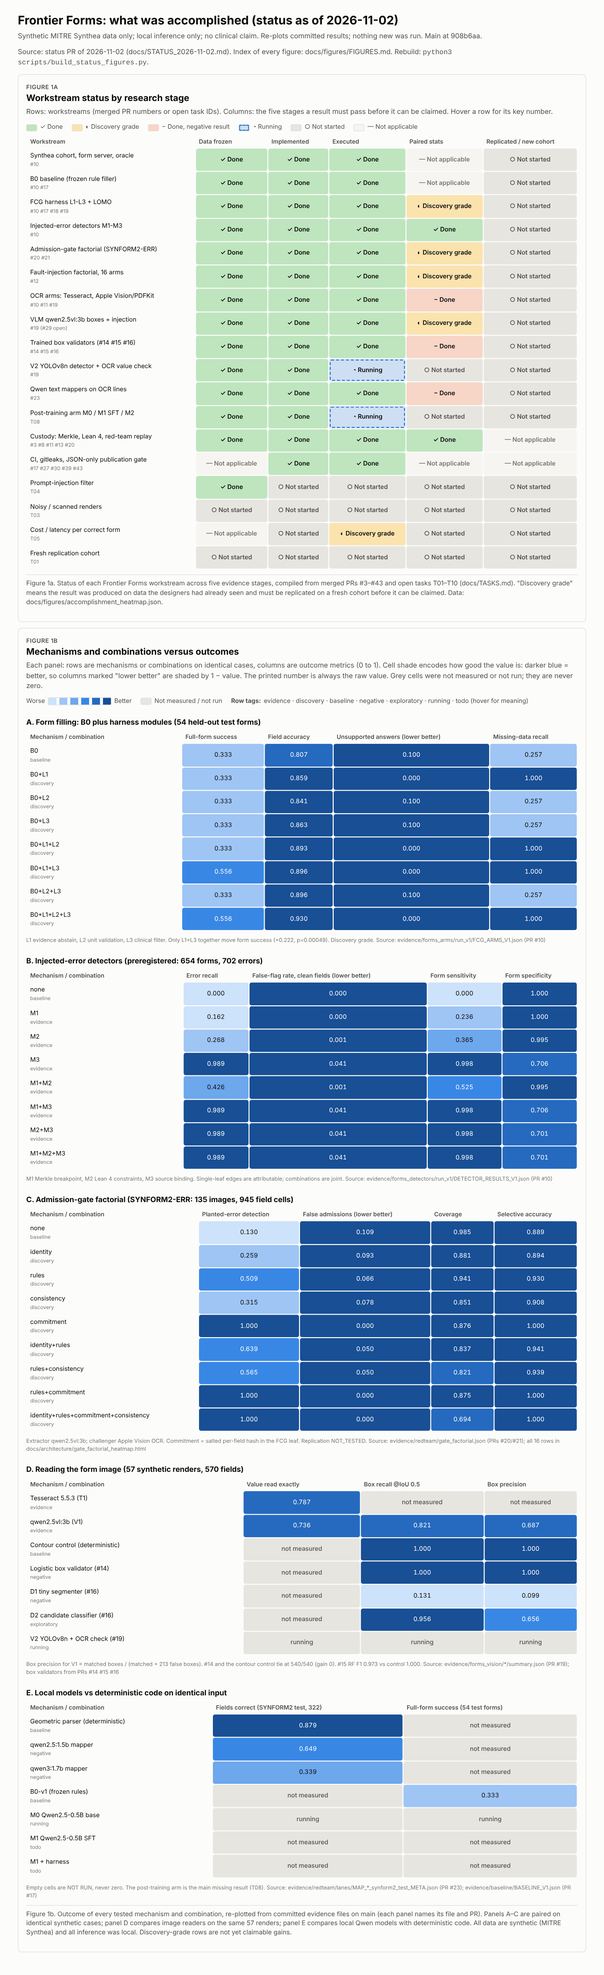
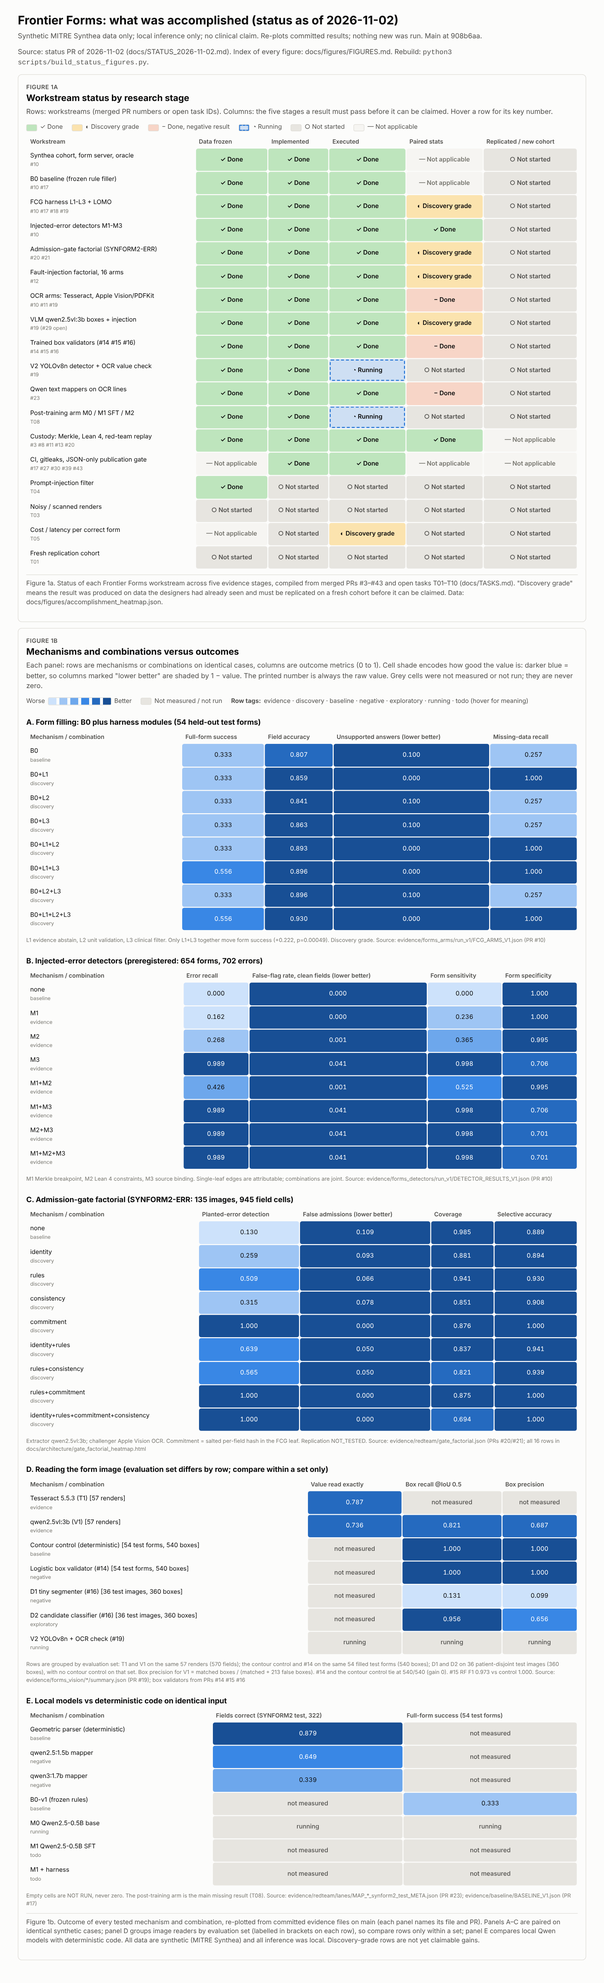
figures: credit M3's LOMO gain; label evaluation sets in the image-reader panel
Addresses review on #50: the detector note now says removing M3 loses 0.563
recall (p=2.5e-119) while M1/M2 add nothing once M3 is present, and panel D
labels each row's evaluation set (57 renders / 54 forms / 36 images) instead
of implying one shared case set.

Claude-Session: https://claude.ai/code/session_015q5z22WRZbHwyEhLJBDBgv

diff --git a/docs/figures/accomplishment_heatmap.html b/docs/figures/accomplishment_heatmap.html
@@ -78,7 +78,7 @@ button{font:inherit;font-size:12px;border:1px solid var(--border);background:var
 </main>
 <div id="tip" role="tooltip"></div>
 <script>
-const DATA={"schema": "frontier_forms.accomplishment_heatmap.v1", "as_of_utc": "2026-11-02T23:45:00Z", "main_commit": "908b6aa", "claim_ceiling": "Synthetic MITRE Synthea data only; local inference only; no clinical claim. Re-plots committed results; nothing new was run.", "stages": ["Data frozen", "Implemented", "Executed", "Paired stats", "Replicated / new cohort"], "workstreams": [{"name": "Synthea cohort, form server, oracle", "prs": "#10", "states": ["done", "done", "done", "na", "todo"], "note": "100 patients, splits 63/19/18, byte-reproducible. Two oracle rules still need PI sign-off (T02)."}, {"name": "B0 baseline (frozen rule filler)", "prs": "#10 #17", "states": ["done", "done", "done", "na", "todo"], "note": "33.3% full-form success (18/54) on the held-out test split."}, {"name": "FCG harness L1-L3 + LOMO", "prs": "#10 #17 #18 #19", "states": ["done", "done", "done", "discovery", "todo"], "note": "0.333 -> 0.556 (12/0 discordant, p=0.00049). Discovery grade: modules written after B0 errors were seen (T01)."}, {"name": "Injected-error detectors M1-M3", "prs": "#10", "states": ["done", "done", "done", "done", "todo"], "note": "Preregistered: 654 forms, 702 injected errors. M3 source binding recall 0.99; LOMO: no single unique contribution."}, {"name": "Admission-gate factorial (SYNFORM2-ERR)", "prs": "#20 #21", "states": ["done", "done", "done", "discovery", "todo"], "note": "Per-field commitment leaf: detection 0.13 -> 1.00, 0 false admissions. Replication NOT_TESTED."}, {"name": "Fault-injection factorial, 16 arms", "prs": "#12", "states": ["done", "done", "done", "discovery", "todo"], "note": "Seeded faults with known corrections; 100% repair is by design, not a model gain."}, {"name": "OCR arms: Tesseract, Apple Vision/PDFKit", "prs": "#10 #11 #19", "states": ["done", "done", "done", "negative", "todo"], "note": "Tesseract labels 0.967 / values 0.787. Apple A2 read-back loses dropdowns and long lists (p=0.5)."}, {"name": "VLM qwen2.5vl:3b boxes + injection", "prs": "#19 (#29 open)", "states": ["done", "done", "done", "discovery", "todo"], "note": "Box recall 0.821, value read 0.736, 24 s/page. Injection followed 0/18 (V1i on open PR #29)."}, {"name": "Trained box validators (#14 #15 #16)", "prs": "#14 #15 #16", "states": ["done", "done", "done", "negative", "todo"], "note": "No gain over deterministic contour control. D2 recall 0.956 / precision 0.656 is exploratory; no new-layout test."}, {"name": "V2 YOLOv8n detector + OCR value check", "prs": "#19", "states": ["done", "done", "running", "todo", "todo"], "note": "Pipeline merged; run in progress on MacBookPro (T09)."}, {"name": "Qwen text mappers on OCR lines", "prs": "#23", "states": ["done", "done", "done", "negative", "todo"], "note": "Both Qwen mappers below the deterministic parser on identical input (209 and 109 vs 283 of 322 fields)."}, {"name": "Post-training arm M0 / M1 SFT / M2", "prs": "T08", "states": ["done", "done", "running", "todo", "todo"], "note": "Qwen2.5-0.5B LoRA: one epoch-0 val loss (1.005), no adapter saved. Restart on MacBookPro."}, {"name": "Custody: Merkle, Lean 4, red-team replay", "prs": "#3 #8 #11 #13 #20", "states": ["done", "done", "done", "done", "na"], "note": "All roots recomputed independently; 7 custody weaknesses reproduced as tests; forged-custody fix (#8)."}, {"name": "CI, gitleaks, JSON-only publication gate", "prs": "#17 #27 #30 #39 #43", "states": ["na", "done", "done", "na", "na"], "note": "Full-history gitleaks; 123 legacy files pinned by exact blob; new images under data/evidence/experiments rejected."}, {"name": "Prompt-injection filter", "prs": "T04", "states": ["done", "todo", "todo", "todo", "todo"], "note": "Measured (V1i, Tesseract reads the note in 19/57) but no filter exists."}, {"name": "Noisy / scanned renders", "prs": "T03", "states": ["todo", "todo", "todo", "todo", "todo"], "note": "All arms read clean browser renders."}, {"name": "Cost / latency per correct form", "prs": "T05", "states": ["na", "todo", "discovery", "todo", "todo"], "note": "Per-page latency recorded for some arms; no seconds-per-correct-form metric."}, {"name": "Fresh replication cohort", "prs": "T01", "states": ["todo", "todo", "todo", "todo", "todo"], "note": "Needs a preregistered new Synthea seed scored once with frozen arms."}], "panels": [{"title": "Form filling: B0 plus harness modules (54 held-out test forms)", "source": "evidence/forms_arms/run_v1/FCG_ARMS_V1.json (PR #10)", "columns": ["Full-form success", "Field accuracy", "Unsupported answers (lower better)", "Missing-data recall"], "lower_better": [false, false, true, false], "rows": [{"label": "B0", "values": [0.333333, 0.807407, 0.099617, 0.257143], "grade": "baseline"}, {"label": "B0+L1", "values": [0.333333, 0.859259, 0.0, 1.0], "grade": "discovery"}, {"label": "B0+L2", "values": [0.333333, 0.840741, 0.099617, 0.257143], "grade": "discovery"}, {"label": "B0+L3", "values": [0.333333, 0.862963, 0.099617, 0.257143], "grade": "discovery"}, {"label": "B0+L1+L2", "values": [0.333333, 0.892593, 0.0, 1.0], "grade": "discovery"}, {"label": "B0+L1+L3", "values": [0.555556, 0.896296, 0.0, 1.0], "grade": "discovery"}, {"label": "B0+L2+L3", "values": [0.333333, 0.896296, 0.099617, 0.257143], "grade": "discovery"}, {"label": "B0+L1+L2+L3", "values": [0.555556, 0.92963, 0.0, 1.0], "grade": "discovery"}], "note": "L1 evidence abstain, L2 unit validation, L3 clinical filter. Only L1+L3 together move form success (+0.222, p=0.00049). Discovery grade."}, {"title": "Injected-error detectors (preregistered: 654 forms, 702 errors)", "source": "evidence/forms_detectors/run_v1/DETECTOR_RESULTS_V1.json (PR #10)", "columns": ["Error recall", "False-flag rate, clean fields (lower better)", "Form sensitivity", "Form specificity"], "lower_better": [false, true, false, false], "rows": [{"label": "none", "values": [0.0, 0.0, 0.0, 1.0], "grade": "baseline"}, {"label": "M1", "values": [0.1624, 0.0, 0.2363, 1.0], "grade": "evidence"}, {"label": "M2", "values": [0.2678, 0.0005, 0.3654, 0.9949], "grade": "evidence"}, {"label": "M3", "values": [0.9886, 0.0407, 0.9978, 0.7056], "grade": "evidence"}, {"label": "M1+M2", "values": [0.4259, 0.0005, 0.5252, 0.9949], "grade": "evidence"}, {"label": "M1+M3", "values": [0.9886, 0.0407, 0.9978, 0.7056], "grade": "evidence"}, {"label": "M2+M3", "values": [0.9886, 0.0412, 0.9978, 0.7005], "grade": "evidence"}, {"label": "M1+M2+M3", "values": [0.9886, 0.0412, 0.9978, 0.7005], "grade": "evidence"}], "note": "M1 Merkle breakpoint, M2 Lean 4 constraints, M3 source binding. Single-leaf edges are attributable; combinations are joint."}, {"title": "Admission-gate factorial (SYNFORM2-ERR: 135 images, 945 field cells)", "source": "evidence/redteam/gate_factorial.json (PRs #20/#21); all 16 rows in docs/architecture/gate_factorial_heatmap.html", "columns": ["Planted-error detection", "False admissions (lower better)", "Coverage", "Selective accuracy"], "lower_better": [false, true, false, false], "rows": [{"label": "none", "values": [0.12962962962962962, 0.10899470899470899, 0.9851851851851852, 0.8893662728249194], "grade": "baseline"}, {"label": "identity", "values": [0.25925925925925924, 0.09312169312169312, 0.8814814814814815, 0.8943577430972389], "grade": "discovery"}, {"label": "rules", "values": [0.5092592592592593, 0.0656084656084656, 0.9407407407407408, 0.9302587176602924], "grade": "discovery"}, {"label": "consistency", "values": [0.3148148148148148, 0.07830687830687831, 0.8507936507936508, 0.9079601990049752], "grade": "discovery"}, {"label": "commitment", "values": [1.0, 0.0, 0.8761904761904762, 1.0], "grade": "discovery"}, {"label": "identity+rules", "values": [0.6388888888888888, 0.04973544973544974, 0.837037037037037, 0.9405815423514539], "grade": "discovery"}, {"label": "rules+consistency", "values": [0.5648148148148148, 0.04973544973544974, 0.8211640211640212, 0.9394329896907216], "grade": "discovery"}, {"label": "rules+commitment", "values": [1.0, 0.0, 0.8751322751322751, 1.0], "grade": "discovery"}, {"label": "identity+rules+commitment+consistency", "values": [1.0, 0.0, 0.6941798941798942, 1.0], "grade": "discovery"}], "note": "Extractor qwen2.5vl:3b; challenger Apple Vision OCR. Commitment = salted per-field hash in the FCG leaf. Replication NOT_TESTED."}, {"title": "Reading the form image (57 synthetic renders, 570 fields)", "source": "evidence/forms_vision/*/summary.json (PR #19); box validators from PRs #14 #15 #16", "columns": ["Value read exactly", "Box recall @IoU 0.5", "Box precision"], "lower_better": [false, false, false], "rows": [{"label": "Tesseract 5.5.3 (T1)", "values": [0.7874, null, null], "grade": "evidence"}, {"label": "qwen2.5vl:3b (V1)", "values": [0.7356, 0.8211, 0.6872], "grade": "evidence"}, {"label": "Contour control (deterministic)", "values": [null, 1.0, 1.0], "grade": "baseline"}, {"label": "Logistic box validator (#14)", "values": [null, 1.0, 1.0], "grade": "negative"}, {"label": "D1 tiny segmenter (#16)", "values": [null, 0.1306, 0.0994], "grade": "negative"}, {"label": "D2 candidate classifier (#16)", "values": [null, 0.9556, 0.6565], "grade": "exploratory"}, {"label": "V2 YOLOv8n + OCR check (#19)", "values": [null, null, null], "grade": "running"}], "note": "Box precision for V1 = matched boxes / (matched + 213 false boxes). #14 and the contour control tie at 540/540 (gain 0). #15 RF F1 0.973 vs control 1.000."}, {"title": "Local models vs deterministic code on identical input", "source": "evidence/redteam/lanes/MAP_*_synform2_test_META.json (PR #23); evidence/baseline/BASELINE_V1.json (PR #17)", "columns": ["Fields correct (SYNFORM2 test, 322)", "Full-form success (54 test forms)"], "lower_better": [false, false], "rows": [{"label": "Geometric parser (deterministic)", "values": [0.8789, null], "grade": "baseline"}, {"label": "qwen2.5:1.5b mapper", "values": [0.6491, null], "grade": "negative"}, {"label": "qwen3:1.7b mapper", "values": [0.3385, null], "grade": "negative"}, {"label": "B0-v1 (frozen rules)", "values": [null, 0.3333], "grade": "baseline"}, {"label": "M0 Qwen2.5-0.5B base", "values": [null, null], "grade": "running"}, {"label": "M1 Qwen2.5-0.5B SFT", "values": [null, null], "grade": "todo"}, {"label": "M1 + harness", "values": [null, null], "grade": "todo"}], "note": "Empty cells are NOT RUN, never zero. The post-training arm is the main missing result (T08)."}], "grades": {"evidence": "Evidence grade: preregistered or independent run, synthetic data", "discovery": "Discovery grade: designed after seeing the test data; needs replication", "baseline": "Baseline / control", "negative": "Negative: no gain over control", "exploratory": "Exploratory: designed after a failure, same layouts", "running": "Running / not yet scored", "todo": "Not run"}};
+const DATA={"schema": "frontier_forms.accomplishment_heatmap.v1", "as_of_utc": "2026-11-02T23:45:00Z", "main_commit": "908b6aa", "claim_ceiling": "Synthetic MITRE Synthea data only; local inference only; no clinical claim. Re-plots committed results; nothing new was run.", "stages": ["Data frozen", "Implemented", "Executed", "Paired stats", "Replicated / new cohort"], "workstreams": [{"name": "Synthea cohort, form server, oracle", "prs": "#10", "states": ["done", "done", "done", "na", "todo"], "note": "100 patients, splits 63/19/18, byte-reproducible. Two oracle rules still need PI sign-off (T02)."}, {"name": "B0 baseline (frozen rule filler)", "prs": "#10 #17", "states": ["done", "done", "done", "na", "todo"], "note": "33.3% full-form success (18/54) on the held-out test split."}, {"name": "FCG harness L1-L3 + LOMO", "prs": "#10 #17 #18 #19", "states": ["done", "done", "done", "discovery", "todo"], "note": "0.333 -> 0.556 (12/0 discordant, p=0.00049). Discovery grade: modules written after B0 errors were seen (T01)."}, {"name": "Injected-error detectors M1-M3", "prs": "#10", "states": ["done", "done", "done", "done", "todo"], "note": "Preregistered: 654 forms, 702 injected errors. M3 source binding recall 0.99; LOMO: removing M3 loses 0.563 recall (p=2.5e-119), while M1 and M2 add nothing once M3 is present."}, {"name": "Admission-gate factorial (SYNFORM2-ERR)", "prs": "#20 #21", "states": ["done", "done", "done", "discovery", "todo"], "note": "Per-field commitment leaf: detection 0.13 -> 1.00, 0 false admissions. Replication NOT_TESTED."}, {"name": "Fault-injection factorial, 16 arms", "prs": "#12", "states": ["done", "done", "done", "discovery", "todo"], "note": "Seeded faults with known corrections; 100% repair is by design, not a model gain."}, {"name": "OCR arms: Tesseract, Apple Vision/PDFKit", "prs": "#10 #11 #19", "states": ["done", "done", "done", "negative", "todo"], "note": "Tesseract labels 0.967 / values 0.787. Apple A2 read-back loses dropdowns and long lists (p=0.5)."}, {"name": "VLM qwen2.5vl:3b boxes + injection", "prs": "#19 (#29 open)", "states": ["done", "done", "done", "discovery", "todo"], "note": "Box recall 0.821, value read 0.736, 24 s/page. Injection followed 0/18 (V1i on open PR #29)."}, {"name": "Trained box validators (#14 #15 #16)", "prs": "#14 #15 #16", "states": ["done", "done", "done", "negative", "todo"], "note": "No gain over deterministic contour control. D2 recall 0.956 / precision 0.656 is exploratory; no new-layout test."}, {"name": "V2 YOLOv8n detector + OCR value check", "prs": "#19", "states": ["done", "done", "running", "todo", "todo"], "note": "Pipeline merged; run in progress on MacBookPro (T09)."}, {"name": "Qwen text mappers on OCR lines", "prs": "#23", "states": ["done", "done", "done", "negative", "todo"], "note": "Both Qwen mappers below the deterministic parser on identical input (209 and 109 vs 283 of 322 fields)."}, {"name": "Post-training arm M0 / M1 SFT / M2", "prs": "T08", "states": ["done", "done", "running", "todo", "todo"], "note": "Qwen2.5-0.5B LoRA: one epoch-0 val loss (1.005), no adapter saved. Restart on MacBookPro."}, {"name": "Custody: Merkle, Lean 4, red-team replay", "prs": "#3 #8 #11 #13 #20", "states": ["done", "done", "done", "done", "na"], "note": "All roots recomputed independently; 7 custody weaknesses reproduced as tests; forged-custody fix (#8)."}, {"name": "CI, gitleaks, JSON-only publication gate", "prs": "#17 #27 #30 #39 #43", "states": ["na", "done", "done", "na", "na"], "note": "Full-history gitleaks; 123 legacy files pinned by exact blob; new images under data/evidence/experiments rejected."}, {"name": "Prompt-injection filter", "prs": "T04", "states": ["done", "todo", "todo", "todo", "todo"], "note": "Measured (V1i, Tesseract reads the note in 19/57) but no filter exists."}, {"name": "Noisy / scanned renders", "prs": "T03", "states": ["todo", "todo", "todo", "todo", "todo"], "note": "All arms read clean browser renders."}, {"name": "Cost / latency per correct form", "prs": "T05", "states": ["na", "todo", "discovery", "todo", "todo"], "note": "Per-page latency recorded for some arms; no seconds-per-correct-form metric."}, {"name": "Fresh replication cohort", "prs": "T01", "states": ["todo", "todo", "todo", "todo", "todo"], "note": "Needs a preregistered new Synthea seed scored once with frozen arms."}], "panels": [{"title": "Form filling: B0 plus harness modules (54 held-out test forms)", "source": "evidence/forms_arms/run_v1/FCG_ARMS_V1.json (PR #10)", "columns": ["Full-form success", "Field accuracy", "Unsupported answers (lower better)", "Missing-data recall"], "lower_better": [false, false, true, false], "rows": [{"label": "B0", "values": [0.333333, 0.807407, 0.099617, 0.257143], "grade": "baseline"}, {"label": "B0+L1", "values": [0.333333, 0.859259, 0.0, 1.0], "grade": "discovery"}, {"label": "B0+L2", "values": [0.333333, 0.840741, 0.099617, 0.257143], "grade": "discovery"}, {"label": "B0+L3", "values": [0.333333, 0.862963, 0.099617, 0.257143], "grade": "discovery"}, {"label": "B0+L1+L2", "values": [0.333333, 0.892593, 0.0, 1.0], "grade": "discovery"}, {"label": "B0+L1+L3", "values": [0.555556, 0.896296, 0.0, 1.0], "grade": "discovery"}, {"label": "B0+L2+L3", "values": [0.333333, 0.896296, 0.099617, 0.257143], "grade": "discovery"}, {"label": "B0+L1+L2+L3", "values": [0.555556, 0.92963, 0.0, 1.0], "grade": "discovery"}], "note": "L1 evidence abstain, L2 unit validation, L3 clinical filter. Only L1+L3 together move form success (+0.222, p=0.00049). Discovery grade."}, {"title": "Injected-error detectors (preregistered: 654 forms, 702 errors)", "source": "evidence/forms_detectors/run_v1/DETECTOR_RESULTS_V1.json (PR #10)", "columns": ["Error recall", "False-flag rate, clean fields (lower better)", "Form sensitivity", "Form specificity"], "lower_better": [false, true, false, false], "rows": [{"label": "none", "values": [0.0, 0.0, 0.0, 1.0], "grade": "baseline"}, {"label": "M1", "values": [0.1624, 0.0, 0.2363, 1.0], "grade": "evidence"}, {"label": "M2", "values": [0.2678, 0.0005, 0.3654, 0.9949], "grade": "evidence"}, {"label": "M3", "values": [0.9886, 0.0407, 0.9978, 0.7056], "grade": "evidence"}, {"label": "M1+M2", "values": [0.4259, 0.0005, 0.5252, 0.9949], "grade": "evidence"}, {"label": "M1+M3", "values": [0.9886, 0.0407, 0.9978, 0.7056], "grade": "evidence"}, {"label": "M2+M3", "values": [0.9886, 0.0412, 0.9978, 0.7005], "grade": "evidence"}, {"label": "M1+M2+M3", "values": [0.9886, 0.0412, 0.9978, 0.7005], "grade": "evidence"}], "note": "M1 Merkle breakpoint, M2 Lean 4 constraints, M3 source binding. Single-leaf edges are attributable; combinations are joint."}, {"title": "Admission-gate factorial (SYNFORM2-ERR: 135 images, 945 field cells)", "source": "evidence/redteam/gate_factorial.json (PRs #20/#21); all 16 rows in docs/architecture/gate_factorial_heatmap.html", "columns": ["Planted-error detection", "False admissions (lower better)", "Coverage", "Selective accuracy"], "lower_better": [false, true, false, false], "rows": [{"label": "none", "values": [0.12962962962962962, 0.10899470899470899, 0.9851851851851852, 0.8893662728249194], "grade": "baseline"}, {"label": "identity", "values": [0.25925925925925924, 0.09312169312169312, 0.8814814814814815, 0.8943577430972389], "grade": "discovery"}, {"label": "rules", "values": [0.5092592592592593, 0.0656084656084656, 0.9407407407407408, 0.9302587176602924], "grade": "discovery"}, {"label": "consistency", "values": [0.3148148148148148, 0.07830687830687831, 0.8507936507936508, 0.9079601990049752], "grade": "discovery"}, {"label": "commitment", "values": [1.0, 0.0, 0.8761904761904762, 1.0], "grade": "discovery"}, {"label": "identity+rules", "values": [0.6388888888888888, 0.04973544973544974, 0.837037037037037, 0.9405815423514539], "grade": "discovery"}, {"label": "rules+consistency", "values": [0.5648148148148148, 0.04973544973544974, 0.8211640211640212, 0.9394329896907216], "grade": "discovery"}, {"label": "rules+commitment", "values": [1.0, 0.0, 0.8751322751322751, 1.0], "grade": "discovery"}, {"label": "identity+rules+commitment+consistency", "values": [1.0, 0.0, 0.6941798941798942, 1.0], "grade": "discovery"}], "note": "Extractor qwen2.5vl:3b; challenger Apple Vision OCR. Commitment = salted per-field hash in the FCG leaf. Replication NOT_TESTED."}, {"title": "Reading the form image (evaluation set differs by row; compare within a set only)", "source": "evidence/forms_vision/*/summary.json (PR #19); box validators from PRs #14 #15 #16", "columns": ["Value read exactly", "Box recall @IoU 0.5", "Box precision"], "lower_better": [false, false, false], "rows": [{"label": "Tesseract 5.5.3 (T1) [57 renders]", "values": [0.7874, null, null], "grade": "evidence"}, {"label": "qwen2.5vl:3b (V1) [57 renders]", "values": [0.7356, 0.8211, 0.6872], "grade": "evidence"}, {"label": "Contour control (deterministic) [54 test forms, 540 boxes]", "values": [null, 1.0, 1.0], "grade": "baseline"}, {"label": "Logistic box validator (#14) [54 test forms, 540 boxes]", "values": [null, 1.0, 1.0], "grade": "negative"}, {"label": "D1 tiny segmenter (#16) [36 test images, 360 boxes]", "values": [null, 0.1306, 0.0994], "grade": "negative"}, {"label": "D2 candidate classifier (#16) [36 test images, 360 boxes]", "values": [null, 0.9556, 0.6565], "grade": "exploratory"}, {"label": "V2 YOLOv8n + OCR check (#19)", "values": [null, null, null], "grade": "running"}], "note": "Rows are grouped by evaluation set: T1 and V1 on the same 57 renders (570 fields); the contour control and #14 on the same 54 filled test forms (540 boxes); D1 and D2 on 36 patient-disjoint test images (360 boxes), with no contour control on that set. Box precision for V1 = matched boxes / (matched + 213 false boxes). #14 and the contour control tie at 540/540 (gain 0). #15 RF F1 0.973 vs control 1.000."}, {"title": "Local models vs deterministic code on identical input", "source": "evidence/redteam/lanes/MAP_*_synform2_test_META.json (PR #23); evidence/baseline/BASELINE_V1.json (PR #17)", "columns": ["Fields correct (SYNFORM2 test, 322)", "Full-form success (54 test forms)"], "lower_better": [false, false], "rows": [{"label": "Geometric parser (deterministic)", "values": [0.8789, null], "grade": "baseline"}, {"label": "qwen2.5:1.5b mapper", "values": [0.6491, null], "grade": "negative"}, {"label": "qwen3:1.7b mapper", "values": [0.3385, null], "grade": "negative"}, {"label": "B0-v1 (frozen rules)", "values": [null, 0.3333], "grade": "baseline"}, {"label": "M0 Qwen2.5-0.5B base", "values": [null, null], "grade": "running"}, {"label": "M1 Qwen2.5-0.5B SFT", "values": [null, null], "grade": "todo"}, {"label": "M1 + harness", "values": [null, null], "grade": "todo"}], "note": "Empty cells are NOT RUN, never zero. The post-training arm is the main missing result (T08)."}], "grades": {"evidence": "Evidence grade: preregistered or independent run, synthetic data", "discovery": "Discovery grade: designed after seeing the test data; needs replication", "baseline": "Baseline / control", "negative": "Negative: no gain over control", "exploratory": "Exploratory: designed after a failure, same layouts", "running": "Running / not yet scored", "todo": "Not run"}};
 const STATE={done:["✓","Done"],discovery:["◐","Discovery grade"],negative:["−","Done, negative result"],running:["◔","Running"],todo:["○","Not started"],na:["—","Not applicable"]};
 const tip=document.getElementById('tip');
 function showTip(e,html){tip.innerHTML=html;tip.style.display='block';const x=Math.min(e.clientX+14,innerWidth-360);tip.style.left=x+'px';tip.style.top=(e.clientY+14)+'px'}
@@ -107,7 +107,7 @@ DATA.panels.forEach((p,pi)=>{
 });
 P.addEventListener('mousemove',e=>{const td=e.target.closest('td');if(!td||td.dataset.p===undefined){hideTip();return}const p=DATA.panels[+td.dataset.p],r=p.rows[+td.dataset.r];let s=`<b>${esc(r.label)}</b><br>${esc(DATA.grades[r.grade]||r.grade)}`;if(td.dataset.c!==undefined){const v=r.values[+td.dataset.c];s+=`<br>${esc(p.columns[+td.dataset.c])}: ${v===null?'not measured':(+v).toFixed(4)}`}showTip(e,s+`<br><span class="grade">${esc(p.source)}</span>`)});
 P.addEventListener('mouseleave',hideTip);
-document.getElementById('capB').textContent='Figure 1b. Outcome of every tested mechanism and combination, re-plotted from committed evidence files on main (each panel names its file and PR). Panels A–C are paired on identical synthetic cases; panel D compares image readers on the same 57 renders; panel E compares local Qwen models with deterministic code. All data are synthetic (MITRE Synthea) and all inference was local. Discovery-grade rows are not yet claimable gains.';
+document.getElementById('capB').textContent='Figure 1b. Outcome of every tested mechanism and combination, re-plotted from committed evidence files on main (each panel names its file and PR). Panels A–C are paired on identical synthetic cases; panel D groups image readers by evaluation set (labelled in brackets on each row), so compare rows only within a set; panel E compares local Qwen models with deterministic code. All data are synthetic (MITRE Synthea) and all inference was local. Discovery-grade rows are not yet claimable gains.';
 document.getElementById('theme').onclick=()=>{const r=document.documentElement;const cur=r.dataset.theme||(matchMedia('(prefers-color-scheme: dark)').matches?'dark':'light');r.dataset.theme=cur==='dark'?'light':'dark'};
 </script>
 </body>

diff --git a/scripts/status_heatmap_template.html b/scripts/status_heatmap_template.html
@@ -107,7 +107,7 @@ DATA.panels.forEach((p,pi)=>{
 });
 P.addEventListener('mousemove',e=>{const td=e.target.closest('td');if(!td||td.dataset.p===undefined){hideTip();return}const p=DATA.panels[+td.dataset.p],r=p.rows[+td.dataset.r];let s=`<b>${esc(r.label)}</b><br>${esc(DATA.grades[r.grade]||r.grade)}`;if(td.dataset.c!==undefined){const v=r.values[+td.dataset.c];s+=`<br>${esc(p.columns[+td.dataset.c])}: ${v===null?'not measured':(+v).toFixed(4)}`}showTip(e,s+`<br><span class="grade">${esc(p.source)}</span>`)});
 P.addEventListener('mouseleave',hideTip);
-document.getElementById('capB').textContent='Figure 1b. Outcome of every tested mechanism and combination, re-plotted from committed evidence files on main (each panel names its file and PR). Panels A–C are paired on identical synthetic cases; panel D compares image readers on the same 57 renders; panel E compares local Qwen models with deterministic code. All data are synthetic (MITRE Synthea) and all inference was local. Discovery-grade rows are not yet claimable gains.';
+document.getElementById('capB').textContent='Figure 1b. Outcome of every tested mechanism and combination, re-plotted from committed evidence files on main (each panel names its file and PR). Panels A–C are paired on identical synthetic cases; panel D groups image readers by evaluation set (labelled in brackets on each row), so compare rows only within a set; panel E compares local Qwen models with deterministic code. All data are synthetic (MITRE Synthea) and all inference was local. Discovery-grade rows are not yet claimable gains.';
 document.getElementById('theme').onclick=()=>{const r=document.documentElement;const cur=r.dataset.theme||(matchMedia('(prefers-color-scheme: dark)').matches?'dark':'light');r.dataset.theme=cur==='dark'?'light':'dark'};
 </script>
 </body>

diff --git a/scripts/build_status_figures.py b/scripts/build_status_figures.py
@@ -32,7 +32,7 @@ WORK = [
     ("FCG harness L1-L3 + LOMO", "#10 #17 #18 #19", ["done", "done", "done", "discovery", "todo"],
      "0.333 -> 0.556 (12/0 discordant, p=0.00049). Discovery grade: modules written after B0 errors were seen (T01)."),
     ("Injected-error detectors M1-M3", "#10", ["done", "done", "done", "done", "todo"],
-     "Preregistered: 654 forms, 702 injected errors. M3 source binding recall 0.99; LOMO: no single unique contribution."),
+     "Preregistered: 654 forms, 702 injected errors. M3 source binding recall 0.99; LOMO: removing M3 loses 0.563 recall (p=2.5e-119), while M1 and M2 add nothing once M3 is present."),
     ("Admission-gate factorial (SYNFORM2-ERR)", "#20 #21", ["done", "done", "done", "discovery", "todo"],
      "Per-field commitment leaf: detection 0.13 -> 1.00, 0 false admissions. Replication NOT_TESTED."),
     ("Fault-injection factorial, 16 arms", "#12", ["done", "done", "done", "discovery", "todo"],
@@ -128,22 +128,22 @@ def vision():
     v1 = load("evidence/forms_vision/V1-qwen2.5vl-3b/summary.json")
     t1 = load("evidence/forms_vision/T1-tesseract-redteam/summary.json")
     return {
-        "title": "Reading the form image (57 synthetic renders, 570 fields)",
+        "title": "Reading the form image (evaluation set differs by row; compare within a set only)",
         "source": "evidence/forms_vision/*/summary.json (PR #19); box validators from PRs #14 #15 #16",
         "columns": ["Value read exactly", "Box recall @IoU 0.5", "Box precision"],
         "lower_better": [False, False, False],
         "rows": [
-            {"label": "Tesseract 5.5.3 (T1)", "values": [t1["value_read_match_nonblank"], None, None], "grade": "evidence"},
-            {"label": "qwen2.5vl:3b (V1)", "values": [v1["value_read_match_nonblank"], v1["box_recall_iou50"],
+            {"label": "Tesseract 5.5.3 (T1) [57 renders]", "values": [t1["value_read_match_nonblank"], None, None], "grade": "evidence"},
+            {"label": "qwen2.5vl:3b (V1) [57 renders]", "values": [v1["value_read_match_nonblank"], v1["box_recall_iou50"],
                                                        round(v1["fields"] * v1["box_recall_iou50"] / (v1["fields"] * v1["box_recall_iou50"] + v1["false_boxes"]), 4)],
              "grade": "evidence"},
-            {"label": "Contour control (deterministic)", "values": [None, 1.0, 1.0], "grade": "baseline"},
-            {"label": "Logistic box validator (#14)", "values": [None, 1.0, 1.0], "grade": "negative"},
-            {"label": "D1 tiny segmenter (#16)", "values": [None, 0.1306, 0.0994], "grade": "negative"},
-            {"label": "D2 candidate classifier (#16)", "values": [None, 0.9556, 0.6565], "grade": "exploratory"},
+            {"label": "Contour control (deterministic) [54 test forms, 540 boxes]", "values": [None, 1.0, 1.0], "grade": "baseline"},
+            {"label": "Logistic box validator (#14) [54 test forms, 540 boxes]", "values": [None, 1.0, 1.0], "grade": "negative"},
+            {"label": "D1 tiny segmenter (#16) [36 test images, 360 boxes]", "values": [None, 0.1306, 0.0994], "grade": "negative"},
+            {"label": "D2 candidate classifier (#16) [36 test images, 360 boxes]", "values": [None, 0.9556, 0.6565], "grade": "exploratory"},
             {"label": "V2 YOLOv8n + OCR check (#19)", "values": [None, None, None], "grade": "running"},
         ],
-        "note": "Box precision for V1 = matched boxes / (matched + 213 false boxes). #14 and the contour control tie at 540/540 (gain 0). #15 RF F1 0.973 vs control 1.000.",
+        "note": "Rows are grouped by evaluation set: T1 and V1 on the same 57 renders (570 fields); the contour control and #14 on the same 54 filled test forms (540 boxes); D1 and D2 on 36 patient-disjoint test images (360 boxes), with no contour control on that set. Box precision for V1 = matched boxes / (matched + 213 false boxes). #14 and the contour control tie at 540/540 (gain 0). #15 RF F1 0.973 vs control 1.000.",
     }
 
 

diff --git a/docs/STATUS_2026-11-02.md b/docs/STATUS_2026-11-02.md
@@ -9,7 +9,7 @@ Grades used below. **Evidence**: preregistered or independently run, on syntheti
 - Before: **B0 = 33.3% full-form success (18/54)** on the held-out test split (#10, #17).
 - With the FCG harness (B0+L1+L2+L3): **55.6% (30/54)**, 12/0 discordant, exact McNemar p=0.00049, patient-cluster CI [0.07, 0.37]. **Discovery grade.**
 - After training: **not scored yet.** This is the biggest hole (T08).
-- Strongest evidence-grade result: on 702 preregistered injected errors, source binding (M3) finds 99% of errors at a 4% false-flag rate (#10). On the red-team set, the per-field commitment leaf takes planted-error detection from 0.13 to 1.00 with 0 false admissions (#20/#21, discovery).
+- Strongest evidence-grade result: on 702 preregistered injected errors, source binding (M3) finds 99% of errors at a 4% false-flag rate, and it is the only detector with a unique contribution: removing it from the full set loses 0.563 recall, p=2.5e-119 (#10). On the red-team set, the per-field commitment leaf takes planted-error detection from 0.13 to 1.00 with 0 false admissions (#20/#21, discovery).
 - Local Qwen models have not beaten deterministic code anywhere they were compared on identical input (#23, #11, #13).
 
 ## (a) What we did, per PR
